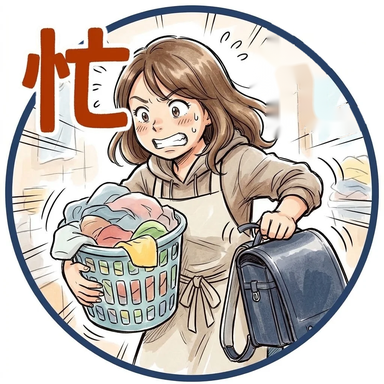
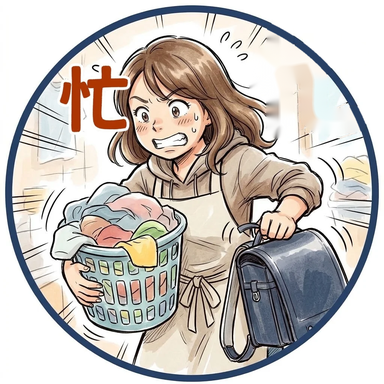
アイコンの「忙」を円の中に収める（はみ出して「亡」に見えないように）

Changed region(s): [[0.0625, 0.0625, 0.3438, 0.375]]

diff --git a/design/move_kanji.py b/design/move_kanji.py
@@ -1,6 +1,8 @@
 # 「忙」を右上から左上へ動かす。右上は周りの色で埋め、円の枠を描き直す。
 # karen_busy_original.webp を icon_src.png（RGB）にしてから動かすと icon_new.png ができる
 # （これを karen_busy.png にした）。numpy と opencv-python が要る。
+import sys
+
 import cv2
 import numpy as np
 
@@ -68,16 +70,34 @@ edge = hm & (np.abs(dist - inner) < 1.5) | hm & (np.abs(dist - outer) < 1.5)
 blur = cv2.GaussianBlur(out, (3, 3), 0)
 out[edge] = blur[edge]
 
-# 文字シールを左上へ（左右で同じだけ余白をとる）
-x0, x1, y0, y1 = xs.min(), xs.max(), ys.min(), ys.max()
-nx0 = w - 1 - x1
-dx = nx0 - x0
-alpha = cv2.GaussianBlur(sticker.astype(np.float32), (5, 5), 0)
-M = np.float32([[1, 0, dx], [0, 1, 0]])
-moved = cv2.warpAffine(src, M, (w, h))
-alpha = cv2.warpAffine(alpha, M, (w, h))[:, :, None]
-out = (moved * alpha + out * (1 - alpha)).astype(np.uint8)
+# 文字シールを小さくして、円の中の左上に収める（はみ出すと「忄」が切れて「亡」に見えるため）
+sy, sx = np.nonzero(sticker)
+x0, x1, y0, y1 = sx.min(), sx.max() + 1, sy.min(), sy.max() + 1
+size = int(sys.argv[1]) if len(sys.argv) > 1 else 200  # シールの幅（px）
+margin = int(sys.argv[2]) if len(sys.argv) > 2 else 22  # 円の枠の内側からのすき間
+scale = size / (x1 - x0)
+sw, sh = size, int(round((y1 - y0) * scale))
+patch = cv2.resize(src[y0:y1, x0:x1], (sw, sh), interpolation=cv2.INTER_AREA)
+pa = cv2.resize(cv2.GaussianBlur(sticker.astype(np.float32), (5, 5), 0)[y0:y1, x0:x1],
+                (sw, sh), interpolation=cv2.INTER_AREA)
+# 文字（白いふち込み）の点がすべて円の内側（枠から margin だけ内）に入る範囲で、
+# いちばん左上に寄せる
+pys, pxs = np.nonzero(pa > 0.3)
+best = None
+for py in range(0, h // 2):
+    for px in range(0, w // 2):
+        if best is not None and px + py >= best[0]:
+            break
+        dd = np.hypot(pxs + px - cx, pys + py - cy)
+        if dd.max() <= inner - margin:
+            best = (px + py, px, py)
+            break
+_, px, py = best
+print("sticker", size, "at", px, py)
+region = out[py:py + sh, px:px + sw].astype(np.float32)
+a3 = pa[:, :, None]
+out[py:py + sh, px:px + sw] = (patch * a3 + region * (1 - a3)).astype(np.uint8)
 
 cv2.imwrite("icon_new.png", out)
 cv2.imwrite("tr_after.png", out[40:420, 620:1024])
-cv2.imwrite("tl_after.png", out[40:420, 0:404])
+cv2.imwrite("tl_after.png", out[0:512, 0:512])
